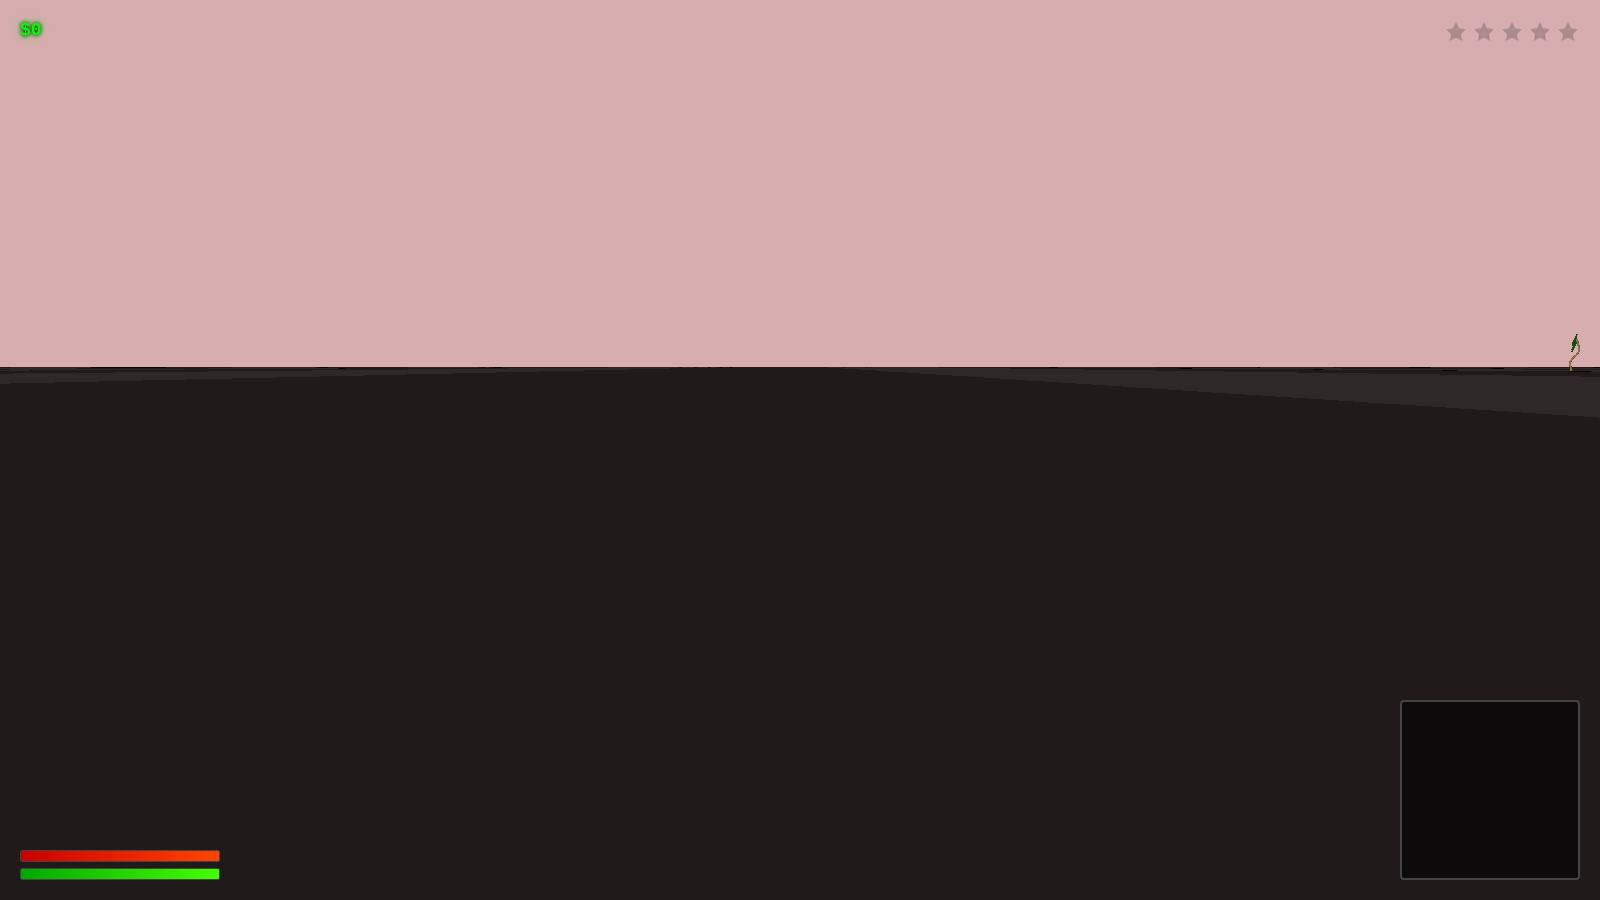
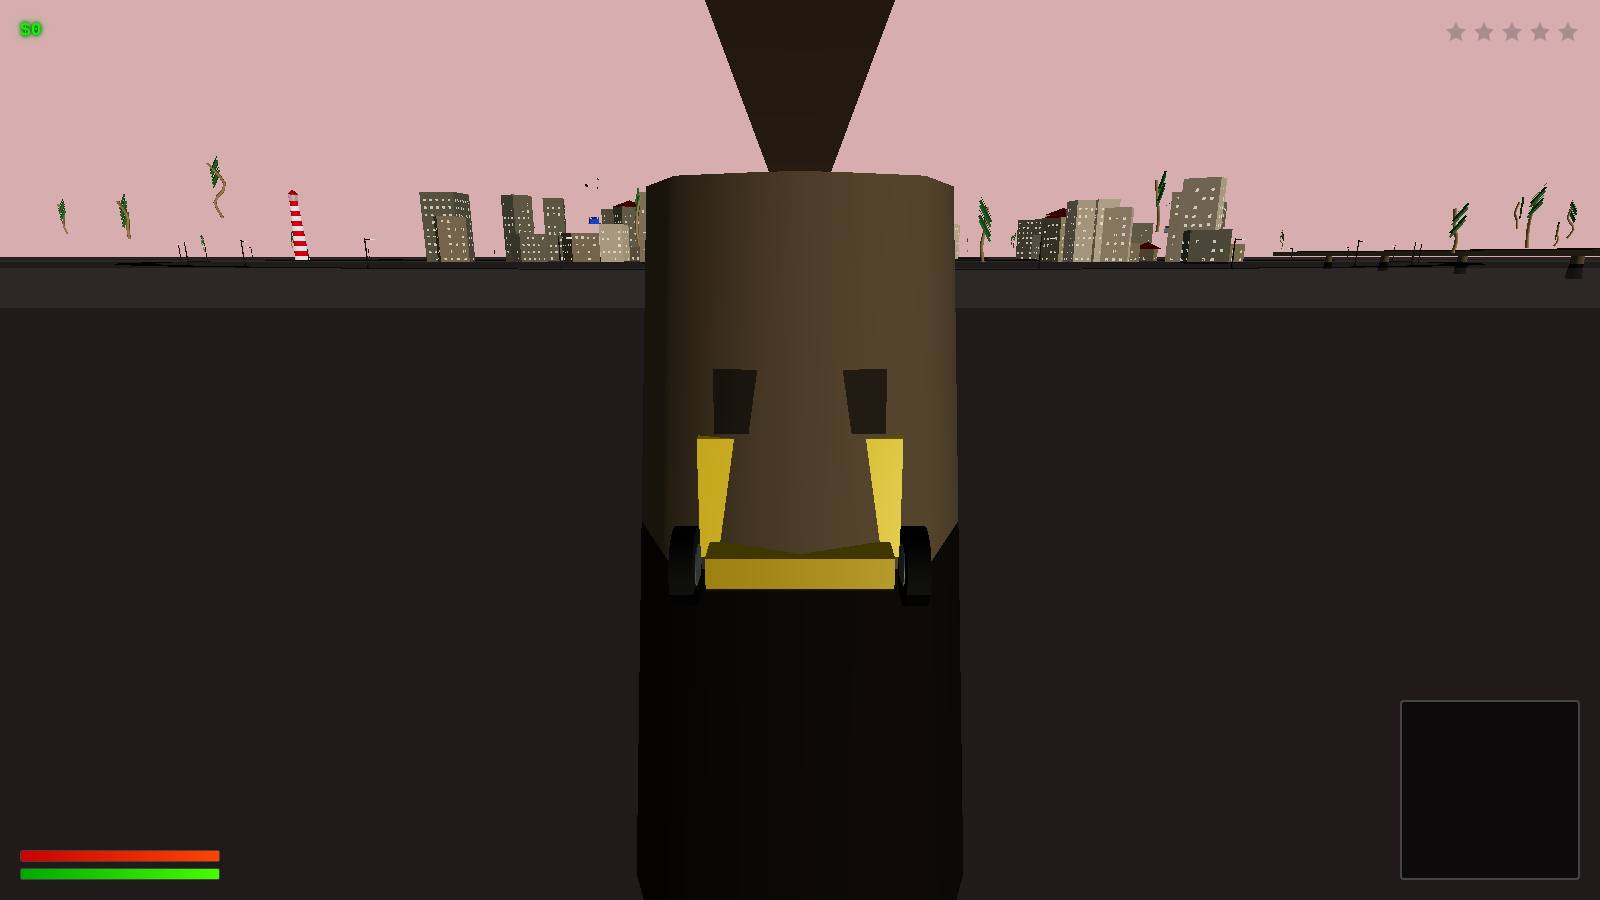
fix wanted/boat/drive shot framing

diff --git a/game/src/shots.js b/game/src/shots.js
@@ -213,7 +213,7 @@ function placePlayerInSportsCarOnBridge() {
     traffic.vehicles.push(sportsCar);
   }
 
-  sportsCar.mesh.position.set(bridgeX, bridgeY, bridgeZ);
+  sportsCar.mesh.position.set(bridgeX + 40, bridgeY, bridgeZ);
   sportsCar.rotation = Math.PI/2;
   sportsCar.speed = 0;
   sportsCar.mesh.rotation.y = Math.PI/2;
@@ -297,7 +297,7 @@ function placePlayerInCarWithPolice() {
 
   car.mesh.position.set(carX, carY, carZ);
   car.rotation = 0;
-  car.speed = 20;
+  car.speed = 0;
 
   player.enterVehicle(car);
   player.isInVehicle = true;
@@ -354,6 +354,13 @@ function updateShotCamera(delta) {
         camera.position.set(-500, 6, -640);
         camera.lookAt(-500, 2, -350);
       } else {
+        // buoyancy fix: force y = 0.5 to avoid NaN from water level
+        if (vehicle.mesh && vehicle.mesh.position) {
+          vehicle.mesh.position.y = 0.5;
+        }
+        if (vehicle.position) {
+          vehicle.position.y = 0.5;
+        }
         // direct placement as in drive but offset (0,4,10)
         const heading = typeof vehicle.rotation === "number"
           ? vehicle.rotation
@@ -366,18 +373,16 @@ function updateShotCamera(delta) {
       break;
 
     case 'wanted':
-      // Behind two police cars (6-10m behind)
+      // Behind two police cars (6-10m behind) - direct placement
       if (police.policeCars.length >= 2) {
         const p1 = police.policeCars[0].mesh;
         const p2 = police.policeCars[1].mesh;
+        const heading = typeof p1.rotation === "number" ? p1.rotation : p1.rotation?.y ?? 0;
         const midX = (p1.position.x + p2.position.x) / 2;
         const midZ = (p1.position.z + p2.position.z) / 2;
-        const backOffset = new THREE.Vector3(0, 3, 12);
-        backOffset.applyAxisAngle(new THREE.Vector3(0, 1, 0), p1.rotation.y);
-        camera.position.lerp(
-          new THREE.Vector3(midX, p1.position.y + 3, midZ).add(backOffset),
-          0.1
-        );
+        const offset = new THREE.Vector3(0, 5, 18);
+        offset.applyAxisAngle(new THREE.Vector3(0, 1, 0), heading);
+        camera.position = new THREE.Vector3(midX, p1.position.y + 1, midZ).add(offset);
         camera.lookAt(vehicle.position.x, vehicle.position.y + 1, vehicle.position.z);
       }
       break;
